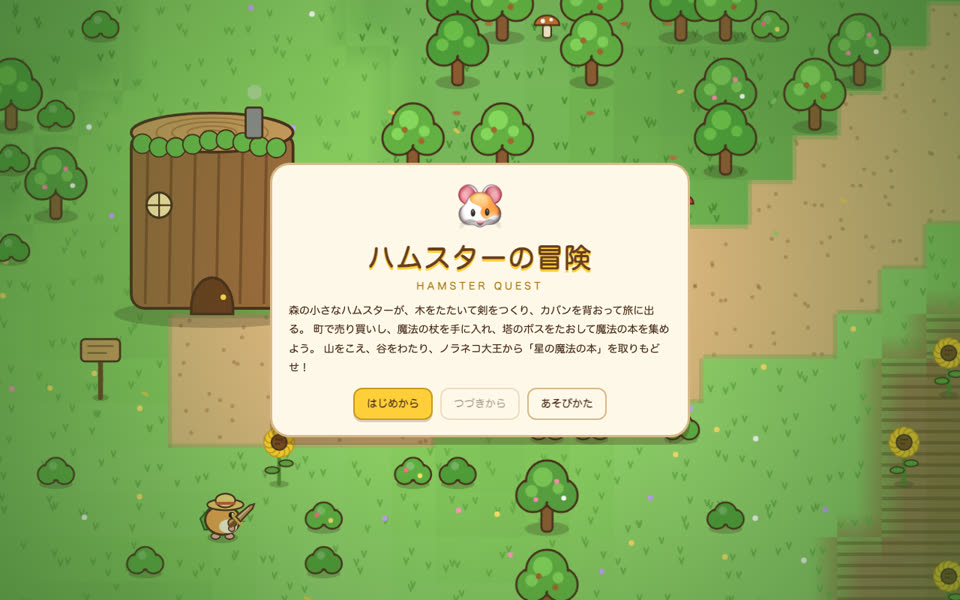
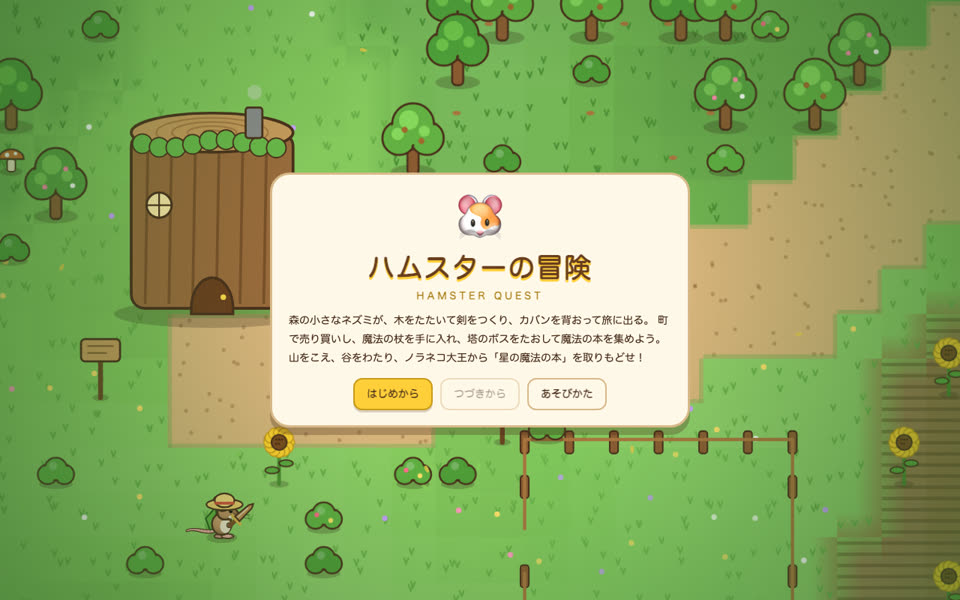
feat: ハムスターの冒険の 主人公を ネズミにする
Problem: 主人公をハムスターではなくネズミにしたいという要望があった。見た目は AI が作ったようなものではなく、ほかのネズミのゲームのように、絵本の挿し絵らしさを残しつつ少しリアルなものにしたい。

Solution: 絵本の挿し絵や、二本足で旅をするネズミのゲームに共通する特徴を手本にして、主人公の絵を drawMouse として描き直した。頭と胴を分けた細い体、内側が薄い桃色の大きな丸い耳、とがった鼻先とひげ、ビーズのような目、根もとが太く先が細い揺れるしっぽ、指のある手と長い後ろ足を持たせ、毛は光と影のグラデーションで丸みを出した。毛の色 8 色は実際のネズミの色に置き換え、ネズミにはほお袋がないので最初のカバンを腰の「こぶくろ」に変えて、物が入るほどふくらむようにした。主人公を指す文章を「ネズミ」に直し、一覧のサムネイルも撮り直した。

Implications: 町の住人はハムスターのままで、武器・帽子・カバン・服の描き分けは drawHamster と共通。毛色のキーは前と同じなので、古いセーブもそのまま読める。王さまのマントは体の幅に合わせて描くようにしたため、ハムスターの住人のマントもわずかに細くなる。タイトル「ハムスターの冒険」、ロゴ、町の名前「ほおぶくろタウン」はそのまま残している。

diff --git a/games/hamster-quest/art.js b/games/hamster-quest/art.js
@@ -146,8 +146,8 @@ function drawClothes(g, body, view, rx, ry, cy) {
   g.restore();
   if ((body === 'royal') && view !== 'front') {
     /* マントは背中で広がる */
-    poly(g, [-11, cy - 6, 11, cy - 6, 14, cy + 10, -14, cy + 10], b.col, INK, 1.2);
-    line(g, -11, cy - 6, 11, cy - 6, b.trim, 2);
+    poly(g, [1 - rx, cy - 6, rx - 1, cy - 6, rx + 2, cy + 10, -rx - 2, cy + 10], b.col, INK, 1.2);
+    line(g, 1 - rx, cy - 6, rx - 1, cy - 6, b.trim, 2);
   }
 }
 
@@ -198,6 +198,11 @@ function drawHamster(g, x, y, o) {
   const fur = o.fur || FURS.gold[0], belly = o.belly || FURS.gold[1];
   const furD = shade(fur.startsWith('#') ? fur : '#eda24f', -40);
 
+  if (o.roll >= 0 && o.mouse) {
+    drawMouseRoll(g, o, fur, belly, o.furD || furD);
+    g.restore();
+    return;
+  }
   if (o.roll >= 0) {
     g.translate(0, -10);
     g.rotate(o.roll * TAU * 1.5 * (o.face === 'left' ? -1 : 1));
@@ -216,8 +221,12 @@ function drawHamster(g, x, y, o) {
   const cheek = clamp(o.cheek || 0, 0, 1);
 
   /* 足 */
-  ell(g, -5, -1 + (view === 'side' ? 0 : step * 0.5), 3.2, 2.2, '#f2a6a6', INK, 1);
-  ell(g, 5, -1 - (view === 'side' ? 0 : step * 0.5), 3.2, 2.2, '#f2a6a6', INK, 1);
+  if (o.mouse) {
+    g.save(); g.scale(flip, 1); drawMouseFeet(g, view, step); g.restore();
+  } else {
+    ell(g, -5, -1 + (view === 'side' ? 0 : step * 0.5), 3.2, 2.2, '#f2a6a6', INK, 1);
+    ell(g, 5, -1 - (view === 'side' ? 0 : step * 0.5), 3.2, 2.2, '#f2a6a6', INK, 1);
+  }
 
   g.translate(0, -bob);
   const BODY_Y = -11;
@@ -278,7 +287,9 @@ function drawHamster(g, x, y, o) {
   g.save();
   g.scale(flip, 1);
 
-  if (view === 'front') {
+  if (o.mouse) {
+    drawMouseBody(g, o, view, fur, belly, o.furD || furD);
+  } else if (view === 'front') {
     drawBag(g, o.bag, 'front');
     if (o.body === 'royal') poly(g, [-12, -16, 12, -16, 14, -2, -14, -2], GEAR.royal.col, INK, 1.2);
     circ(g, -8, -20, 4.2, fur, INK, 1.3); circ(g, -8, -20, 2.2, '#f7b8b8');
@@ -345,6 +356,209 @@ function drawHamster(g, x, y, o) {
   else if (view === 'side') staffOnBack();
   if (!weaponBehind) weaponLayer();
   g.restore();
+}
+
+/* ============================== ネズミ (主人公) ==============================
+   絵本の挿し絵や、二本足で旅をするネズミのゲームを手本にした。
+   頭と胴が分かれていて、大きな丸い耳の内がわは うすい桃色。鼻先はとがり、長いひげ、
+   ビーズのような黒い目、毛のない長いしっぽ。線はほかの絵と同じこげ茶にして、
+   毛は光と影のグラデーションで丸みを出す。
+   色は [毛, おなか, 影] */
+const MOUSE_FURS = {
+  gold:  ['#b98a5c', '#f1e3cd', '#7c5a3a'],
+  white: ['#f3eee6', '#ffffff', '#c9bfb0'],
+  gray:  ['#8f8a86', '#dcd6ce', '#5f5a57'],
+  cream: ['#dcc29a', '#faf1e2', '#ad8f66'],
+  brown: ['#94653f', '#eedfc8', '#62422a'],
+  black: ['#4a4442', '#77706d', '#272322'],
+  choco: ['#6c4832', '#c4a286', '#45301f'],
+  panda: ['#3f3a3b', '#f6f2ea', '#262223'],
+};
+const M_SKIN = '#e8aaa1', M_EAR_IN = '#f2bdb5', M_NOSE = '#e0868c';
+
+function drawMouse(g, x, y, o) {
+  const f = MOUSE_FURS[o.furKey] || MOUSE_FURS.gold;
+  drawHamster(g, x, y, Object.assign({}, o, { mouse: true, fur: f[0], belly: f[1], furD: f[2] }));
+}
+
+/* 毛のやわらかい丸み。光は左上から */
+function furGrad(g, x, y, r, fur, furD) {
+  const gr = g.createRadialGradient(x - r * 0.35, y - r * 0.45, r * 0.1, x, y, r * 1.15);
+  gr.addColorStop(0, shade(fur, 16)); gr.addColorStop(0.55, fur); gr.addColorStop(1, furD);
+  return gr;
+}
+/* 根もとが太く、先へいくほど細くなる しっぽ。p は3次ベジェの4点 */
+function mouseTail(g, p, w0) {
+  const N = 16, P = [];
+  for (let i = 0; i <= N; i++) {
+    const t = i / N, u = 1 - t;
+    P.push([u * u * u * p[0] + 3 * u * u * t * p[2] + 3 * u * t * t * p[4] + t * t * t * p[6],
+            u * u * u * p[1] + 3 * u * u * t * p[3] + 3 * u * t * t * p[5] + t * t * t * p[7]]);
+  }
+  g.lineCap = 'round';
+  for (let pass = 0; pass < 2; pass++) {
+    for (let i = 0; i < N; i++) {
+      const w = lerp(w0, 0.6, i / N);
+      g.beginPath(); g.moveTo(P[i][0], P[i][1]); g.lineTo(P[i + 1][0], P[i + 1][1]);
+      g.lineWidth = pass ? w : w + 1.2; g.strokeStyle = pass ? M_SKIN : INK; g.stroke();
+    }
+  }
+  /* うっすら見える 輪の節 */
+  g.strokeStyle = 'rgba(150,80,72,.4)'; g.lineWidth = 0.45;
+  for (let i = 2; i < N - 2; i += 2) {
+    const dx = P[i + 1][0] - P[i][0], dy = P[i + 1][1] - P[i][1], l = Math.hypot(dx, dy) || 1;
+    const w = lerp(w0, 0.6, i / N) * 0.5, nx = -dy / l * w, ny = dx / l * w;
+    g.beginPath(); g.moveTo(P[i][0] - nx, P[i][1] - ny); g.lineTo(P[i][0] + nx, P[i][1] + ny); g.stroke();
+  }
+}
+/* 大きな丸い耳。内がわは 血の色がすける うすい桃色 */
+function mouseEar(g, x, y, r, fur, furD, inner) {
+  ell(g, x, y, r, r * 1.04, fur, INK, 1.2);
+  if (!inner) { ell(g, x + 0.4, y + 0.6, r * 0.6, r * 0.62, furD); return; }
+  ell(g, x, y + 0.5, r * 0.7, r * 0.74, M_EAR_IN);
+  ell(g, x - r * 0.2, y + r * 0.35, r * 0.42, r * 0.36, 'rgba(205,120,118,.38)');
+  line(g, x + r * 0.05, y + r * 0.5, x + r * 0.2, y - r * 0.35, 'rgba(190,100,100,.4)', 0.5);
+}
+function mouseHand(g, x, y) {
+  ell(g, x, y, 1.9, 1.6, M_SKIN, INK, 0.8);
+  line(g, x - 0.7, y + 0.6, x - 0.9, y + 1.6, INK, 0.5);
+  line(g, x + 0.5, y + 0.7, x + 0.6, y + 1.7, INK, 0.5);
+}
+function mouseWhiskers(g, x, y, dir, len) {
+  g.strokeStyle = 'rgba(40,26,20,.6)'; g.lineWidth = 0.45; g.lineCap = 'round';
+  for (const [dy, bend] of [[-3.2, -1], [-0.6, -0.3], [2.2, 0.6]]) {
+    g.beginPath(); g.moveTo(x, y);
+    g.quadraticCurveTo(x + dir * len * 0.55, y + dy * 0.45 + bend, x + dir * len, y + dy);
+    g.stroke();
+  }
+}
+/* はじめの小さなカバンは、腰につけた こぶくろ。物が入るほど ふくらむ */
+function mousePouch(g, x, y, fill) {
+  const r = 2.2 + fill * 1.8;
+  line(g, x - 0.5, y - r - 2.2, x, y - r + 0.4, '#7a5030', 0.9);
+  ell(g, x, y, r * 0.95, r, '#b98552', INK, 0.9);
+  line(g, x - r * 0.6, y - r * 0.55, x + r * 0.6, y - r * 0.55, '#7a5030', 0.8);
+  ell(g, x - r * 0.3, y - r * 0.1, r * 0.3, r * 0.25, 'rgba(255,240,210,.45)');
+}
+
+/* 地面の足。後ろ足は長く、指が見える */
+function drawMouseFeet(g, view, step) {
+  if (view === 'side') {
+    ell(g, 1 - step, -0.9, 4.2, 1.5, '#c98d86', INK, 0.9);
+    ell(g, 2 + step, -0.9, 4.4, 1.6, M_SKIN, INK, 0.9);
+    for (let i = 0; i < 3; i++) circ(g, 5.6 + step, -1.6 + i * 0.75, 0.55, M_SKIN, INK, 0.5);
+  } else {
+    for (const s of [-1, 1]) {
+      const yy = -1 + s * step * 0.5;
+      g.save(); g.translate(s * 3.6, yy); g.rotate(s * 0.35);
+      ell(g, 0, view === 'back' ? -0.6 : 0.4, 2.1, view === 'back' ? 1.5 : 2.4, M_SKIN, INK, 0.9);
+      if (view !== 'back') for (let i = -1; i <= 1; i++) circ(g, i * 0.9, 2.5, 0.55, M_SKIN, INK, 0.5);
+      g.restore();
+    }
+  }
+}
+
+function drawMouseBody(g, o, view, fur, belly, furD) {
+  const BY = -8, RX = 7.4, RY = 7.8;
+  const sw = Math.sin(o.t * (o.moving ? 9 : 2.4)) * (o.moving ? 2.4 : 1.4);
+  const pouch = o.bag === 'cheek' ? clamp(o.cheek || 0, 0, 1) : -1;
+  const blink = Math.sin(o.t * 0.9 + (o.seed || 0)) > 0.985;
+
+  if (view === 'front') {
+    mouseTail(g, [3, -3, 13, -1, 19 + sw, -6, 17 + sw * 1.6, -15], 2.2);
+    drawBag(g, o.bag, 'front');
+    if (o.body === 'royal') poly(g, [-10, -14, 10, -14, 12, -1, -12, -1], GEAR.royal.col, INK, 1.2);
+    /* 胴 */
+    ell(g, 0, BY, RX, RY, furGrad(g, 0, BY, RX, fur, furD), INK, 1.3);
+    ell(g, 0, BY + 1.5, 4.6, 5.4, belly);
+    drawClothes(g, o.body, view, RX, RY, BY);
+    if (o.apron) { g.save(); g.beginPath(); g.ellipse(0, BY, RX, RY, 0, 0, TAU); g.clip(); rrect(g, -4.5, -8, 9, 8, 2, o.apron); g.restore(); }
+    if (pouch >= 0) mousePouch(g, 5.5, -3.2, pouch);
+    mouseHand(g, -6, -6.5); mouseHand(g, 6, -6.5);
+    /* 耳 (頭のうしろ) */
+    mouseEar(g, -6.9, -22.6, 5.2, fur, furD, true);
+    mouseEar(g, 6.9, -22.6, 5.2, fur, furD, true);
+    /* 頭: 上は丸く、下の鼻先へ すぼまる */
+    g.beginPath();
+    g.moveTo(0, -11.2);
+    g.bezierCurveTo(-3.4, -11.2, -7.2, -14.4, -7, -17.6);
+    g.bezierCurveTo(-6.8, -21.6, -3.6, -23.1, 0, -23.1);
+    g.bezierCurveTo(3.6, -23.1, 6.8, -21.6, 7, -17.6);
+    g.bezierCurveTo(7.2, -14.4, 3.4, -11.2, 0, -11.2);
+    g.closePath();
+    g.fillStyle = furGrad(g, 0, -18, 7, fur, furD); g.fill();
+    g.strokeStyle = INK; g.lineWidth = 1.3; g.stroke();
+    ell(g, 0, -13.4, 2.9, 2.1, belly);
+    /* 目 */
+    if (blink) { line(g, -4.3, -17.6, -2, -17.6, '#140c0a', 1.1); line(g, 2, -17.6, 4.3, -17.6, '#140c0a', 1.1); }
+    else {
+      ell(g, -3.1, -17.6, 1.45, 1.7, '#140c0a'); ell(g, 3.1, -17.6, 1.45, 1.7, '#140c0a');
+      circ(g, -2.6, -18.3, 0.55, '#fff'); circ(g, 3.6, -18.3, 0.55, '#fff');
+    }
+    if (o.glasses) { circ(g, -3.1, -17.6, 2.6, null, '#3a3a4a', 0.9); circ(g, 3.1, -17.6, 2.6, null, '#3a3a4a', 0.9); line(g, -0.5, -17.6, 0.5, -17.6, '#3a3a4a', 0.9); }
+    /* 鼻とひげ */
+    mouseWhiskers(g, -1.4, -12.6, -1, 10);
+    mouseWhiskers(g, 1.4, -12.6, 1, 10);
+    ell(g, 0, -12, 1.35, 1, M_NOSE, INK, 0.6);
+    circ(g, -0.4, -12.3, 0.35, 'rgba(255,255,255,.7)');
+  } else if (view === 'back') {
+    mouseEar(g, -6.9, -22.6, 5.2, fur, furD, false);
+    mouseEar(g, 6.9, -22.6, 5.2, fur, furD, false);
+    /* 胴と背すじ */
+    ell(g, 0, BY, RX, RY, furGrad(g, 0, BY, RX, fur, furD), INK, 1.3);
+    g.globalAlpha = 0.35; ell(g, 0, BY - 1, 2.6, 6, furD); g.globalAlpha = 1;
+    drawClothes(g, o.body, view, RX, RY, BY);
+    /* 頭のうしろ。ひげの先が左右にのぞく */
+    mouseWhiskers(g, -5.5, -14.5, -1, 6);
+    mouseWhiskers(g, 5.5, -14.5, 1, 6);
+    ell(g, 0, -17.4, 6.9, 5.9, furGrad(g, 0, -17.4, 6.9, fur, furD), INK, 1.3);
+    if (pouch >= 0) mousePouch(g, -5.8, -3.4, pouch);
+    drawBag(g, o.bag === 'cheek' ? null : o.bag, 'back');
+    /* しっぽは いちばん手前 */
+    mouseTail(g, [0, -2, 1 + sw * 0.4, 3, 11 + sw, 3, 16 + sw * 1.5, -5], 2.2);
+  } else {
+    /* 横向き (右むき。左は外で反転) */
+    mouseTail(g, [-5.5, -3.5, -13, -1.5 + sw * 0.3, -18, -8 + sw, -25, -6 + sw * 1.4], 2.2);
+    mouseEar(g, -1.8, -23.6, 4.6, shade(fur, -14), furD, false);
+    g.save(); g.translate(4.5, 0); drawBag(g, o.bag, 'side'); g.restore();
+    ell(g, 0, BY, RX - 0.4, RY, furGrad(g, 0, BY, RX, fur, furD), INK, 1.3);
+    ell(g, 2.6, BY + 1.6, 3.8, 5, belly);
+    drawClothes(g, o.body, view, RX - 0.4, RY, BY);
+    if (o.apron) { g.save(); g.beginPath(); g.ellipse(0, BY, RX - 0.4, RY, 0, 0, TAU); g.clip(); rrect(g, 0, -8, 7, 8, 2, o.apron); g.restore(); }
+    if (pouch >= 0) mousePouch(g, -3.6, -3.4, pouch);
+    /* 頭: 丸い後頭部から、とがった鼻先へ */
+    g.beginPath();
+    g.moveTo(-3, -16.5);
+    g.bezierCurveTo(-3, -21.5, 2, -23.2, 5, -22.6);
+    g.bezierCurveTo(8, -22, 10.5, -18, 12.8, -15);
+    g.bezierCurveTo(13.4, -14.1, 12.6, -13.2, 11.6, -13.2);
+    g.bezierCurveTo(8.5, -12.8, 6, -11.5, 3, -11.2);
+    g.bezierCurveTo(-0.5, -11, -3, -13, -3, -16.5);
+    g.closePath();
+    g.fillStyle = furGrad(g, 3, -17.5, 7.5, fur, furD); g.fill();
+    g.strokeStyle = INK; g.lineWidth = 1.3; g.stroke();
+    ell(g, 8.2, -13.1, 3.4, 1.5, belly);
+    mouseEar(g, 0.6, -22.8, 5.3, fur, furD, true);
+    if (blink) line(g, 5.2, -17.6, 7.6, -17.6, '#140c0a', 1.1);
+    else { ell(g, 6.5, -17.6, 1.35, 1.65, '#140c0a'); circ(g, 7, -18.3, 0.55, '#fff'); }
+    if (o.glasses) circ(g, 6.5, -17.6, 2.6, null, '#3a3a4a', 0.9);
+    mouseWhiskers(g, 11, -14, 1, 9);
+    mouseWhiskers(g, 10.4, -14.2, -1, 4);
+    ell(g, 12.7, -14.3, 1.25, 1.05, M_NOSE, INK, 0.6);
+    mouseHand(g, 5.6, -7.2);
+  }
+}
+
+/* ころがって よけるとき: しっぽを体にまいた 毛玉 */
+function drawMouseRoll(g, o, fur, belly, furD) {
+  g.translate(0, -9);
+  g.rotate(o.roll * TAU * 1.5 * (o.face === 'left' ? -1 : 1));
+  circ(g, 0, 0, 9, furGrad(g, 0, 0, 9, fur, furD), INK, 1.3);
+  g.beginPath(); g.arc(0, 0, 9, -0.5, 0.7); g.lineTo(0, 0); g.closePath(); g.fillStyle = belly; g.fill();
+  mouseEar(g, -4, -7.5, 3.6, fur, furD, true);
+  ell(g, 8, 2.5, 1.2, 1, M_NOSE, INK, 0.6);
+  g.beginPath(); g.arc(0, 0, 10.6, 1.0, 3.6); g.lineWidth = 2.6; g.strokeStyle = INK; g.lineCap = 'round'; g.stroke();
+  g.beginPath(); g.arc(0, 0, 10.6, 1.0, 3.6); g.lineWidth = 1.5; g.strokeStyle = M_SKIN; g.stroke();
 }
 function easeOut(p) { return 1 - (1 - p) * (1 - p); }
 

diff --git a/games/hamster-quest/ui.js b/games/hamster-quest/ui.js
@@ -281,9 +281,9 @@ const UI = {
     const g = c.getContext('2d'), G = Game.G;
     g.clearRect(0, 0, 200, 200);
     g.fillStyle = '#fff6e0'; g.beginPath(); g.arc(100, 100, 92, 0, TAU); g.fill();
-    drawHamster(g, 100, 170, {
+    drawMouse(g, 100, 170, {
       face: 'down', t: R.t, moving: false, body: G.eq.body, hat: G.eq.hat, bag: Game.bagId(), weapon: G.eq.weapon, staff: G.eq.staff,
-      swing: -1, roll: -1, cheek: Game.bagFill(), scale: 3.4, aim: 0, fur: (FURS[G.fur] || FURS.gold)[0], belly: (FURS[G.fur] || FURS.gold)[1],
+      swing: -1, roll: -1, cheek: Game.bagFill(), scale: 3.4, aim: 0, furKey: G.fur,
     });
   },
 
@@ -370,16 +370,16 @@ const UI = {
   setup: { fur: 'gold' },
   initSettings() {
     const row = $('furRow');
-    row.innerHTML = Object.keys(FURS).map((k) => `<button class="furChip ${this.setup.fur === k ? 'on' : ''}" data-fur="${k}" style="background:${FURS[k][0]}" title="${k}"></button>`).join('');
+    row.innerHTML = Object.keys(FURS).map((k) => `<button class="furChip ${this.setup.fur === k ? 'on' : ''}" data-fur="${k}" style="background:${MOUSE_FURS[k][0]}" title="${k}"></button>`).join('');
     row.onclick = (e) => { const b = e.target.closest('[data-fur]'); if (!b) return; this.setup.fur = b.dataset.fur; Sfx.click(); this.initSettings(); };
     this.drawFurPreview();
   },
   drawFurPreview() {
     const c = $('furPreview');
     if (!c) return;
-    const g = c.getContext('2d'), f = FURS[this.setup.fur];
+    const g = c.getContext('2d');
     g.setTransform(1, 0, 0, 1, 0, 0); g.clearRect(0, 0, 120, 120);
-    drawHamster(g, 60, 104, { face: 'down', t: 0, moving: false, fur: f[0], belly: f[1], weapon: 'stick', swing: -1, roll: -1, cheek: 0, scale: 2.6, aim: 0 });
+    drawMouse(g, 60, 104, { face: 'down', t: 0, moving: false, furKey: this.setup.fur, weapon: 'stick', swing: -1, roll: -1, cheek: 0, scale: 2.6, aim: 0 });
   },
   newSettings() { return { fur: this.setup.fur, keepInv: $('keepInv').checked }; },
 

diff --git a/games/hamster-quest/data.js b/games/hamster-quest/data.js
@@ -76,7 +76,7 @@ const GEAR = {
   helmet:   { slot: 'hat', name: '鉄のかぶと', icon: '⛑', def: 3, price: 320, sell: 100 },
   crown:    { slot: 'hat', name: '王冠', icon: '👑', def: 4, mag: 4, mp: 10, sell: 999 },
 
-  cheek:    { slot: 'bag', name: 'ほおぶくろ', icon: '🐹', slots: 4 },
+  cheek:    { slot: 'bag', name: 'こぶくろ', icon: '👝', slots: 4 },
   leafbag:  { slot: 'bag', name: '葉っぱのカバン', icon: '🍃', slots: 8, col: '#5fae3e' },
   clothbag: { slot: 'bag', name: '布のリュック', icon: '🎒', slots: 14, col: '#d8b98a', price: 180 },
   advbag:   { slot: 'bag', name: '冒険リュック', icon: '🎒', slots: 22, col: '#8a5a32', price: 750 },
@@ -337,7 +337,7 @@ const BUILDS = {
     desc: '水べに建てると まわって力をつくる。軸やベルトで 機械に力をおくる。' },
   shaft:   { name: '木の軸', icon: '🥢', w: 1, h: 1, cost: { wood: 2 }, conduct: true, flat: true, desc: '水車の力を となりへ つたえる。上を歩ける。' },
   belt:    { name: 'ベルトコンベア', icon: '⏩', w: 1, h: 1, cost: { wood: 2, grass: 2 }, conduct: true, use: 0.25, dir: true, flat: true,
-    desc: '力が来ていると、のせた物を はこぶ。ハムスターも はこばれる。' },
+    desc: '力が来ていると、のせた物を はこぶ。ネズミも はこばれる。' },
   sawmill: { name: '製材機', icon: '🪚', w: 2, h: 2, cost: { wood: 10, stone: 4, rope: 2 }, use: 2, dir: true,
     recipes: [{ in: { wood: 1 }, out: ['plank', 2], t: 2.5 }], desc: '木を 板に する。' },
   spinner: { name: '糸車', icon: '🧵', w: 2, h: 2, cost: { wood: 8, rope: 3 }, use: 2, dir: true,

diff --git a/games/hamster-quest/index.html b/games/hamster-quest/index.html
@@ -83,7 +83,7 @@
     <h1>ハムスターの冒険</h1>
     <p class="sub">HAMSTER QUEST</p>
     <p class="lead">
-      森の小さなハムスターが、木をたたいて剣をつくり、カバンを背おって旅に出る。
+      森の小さなネズミが、木をたたいて剣をつくり、カバンを背おって旅に出る。
       町で売り買いし、魔法の杖を手に入れ、塔のボスをたおして魔法の本を集めよう。
       山をこえ、谷をわたり、ノラネコ大王から「星の魔法の本」を取りもどせ！
     </p>
@@ -115,7 +115,7 @@
 <div id="nameScreen" class="hidden">
   <div class="tcard">
     <h1 class="small">なまえをつけよう</h1>
-    <p class="lead">冒険にでる ハムスターの なまえは？</p>
+    <p class="lead">冒険にでる ネズミの なまえは？</p>
     <div class="nameRow"><input id="heroInput" type="text" maxlength="8" placeholder="なまえ" autocomplete="off" /></div>
     <div class="setup">
       <canvas id="furPreview" width="120" height="120"></canvas>

diff --git a/games/hamster-quest/render.js b/games/hamster-quest/render.js
@@ -227,8 +227,8 @@ const R = {
       g.rotate(Math.sin(this.t * (p.moving ? 9 : 4)) * (p.moving ? 0.22 : 0.12));
       g.translate(-sx, -y);
     }
-    drawHamster(g, sx, y, {
-      face: p.face, t: this.t, moving: p.moving, fur: (FURS[G.fur] || FURS.gold)[0], belly: (FURS[G.fur] || FURS.gold)[1],
+    drawMouse(g, sx, y, {
+      face: p.face, t: this.t, moving: p.moving, furKey: G.fur,
       body: G.eq.body, hat: G.eq.hat, bag: Game.bagId(), weapon: G.eq.weapon || 'paw', staff: G.eq.staff,
       swing: p.swing >= 0 ? p.swing / p.swingMax : -1, aim: p.aim, roll: p.roll >= 0 ? p.roll / 0.32 : -1,
       cheek: Game.bagFill(), flash: p.flash, cast: p.castT > 0 ? p.castT / 0.3 : 0, seed: 1, noShadow: !!G.ride,

diff --git a/games/hamster-quest/build.js b/games/hamster-quest/build.js
@@ -109,7 +109,7 @@ const Build = {
     }
     if (!d.flat) {
       const p = G.p;
-      if (p.x + 8 > x * TILE && p.x - 8 < (x + d.w) * TILE && p.y + 8 > y * TILE && p.y - 8 < (y + d.h) * TILE) return 'ハムスターが じゃま。少し はなれよう';
+      if (p.x + 8 > x * TILE && p.x - 8 < (x + d.w) * TILE && p.y + 8 > y * TILE && p.y - 8 < (y + d.h) * TILE) return 'ネズミが じゃま。少し はなれよう';
     }
     if (!Game.hasAll(d.cost)) return '材料が たりない';
     return null;
